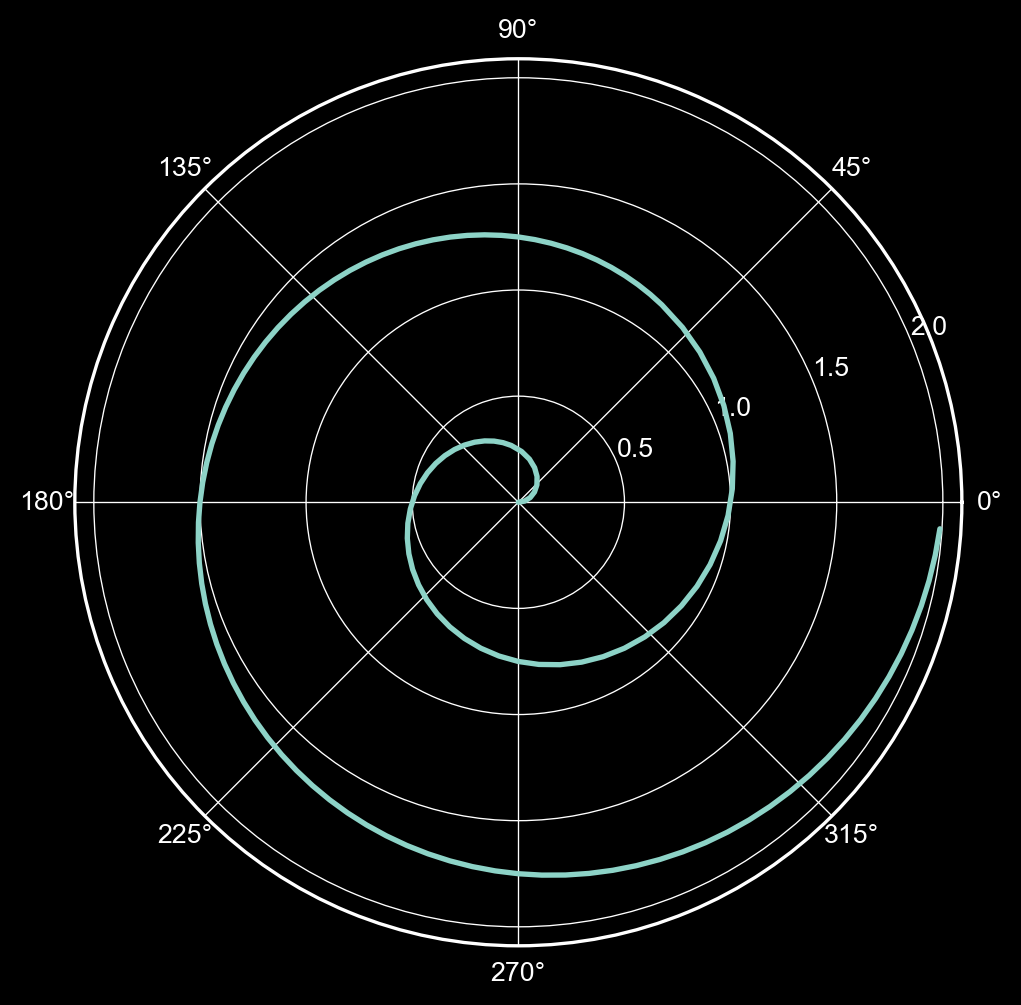
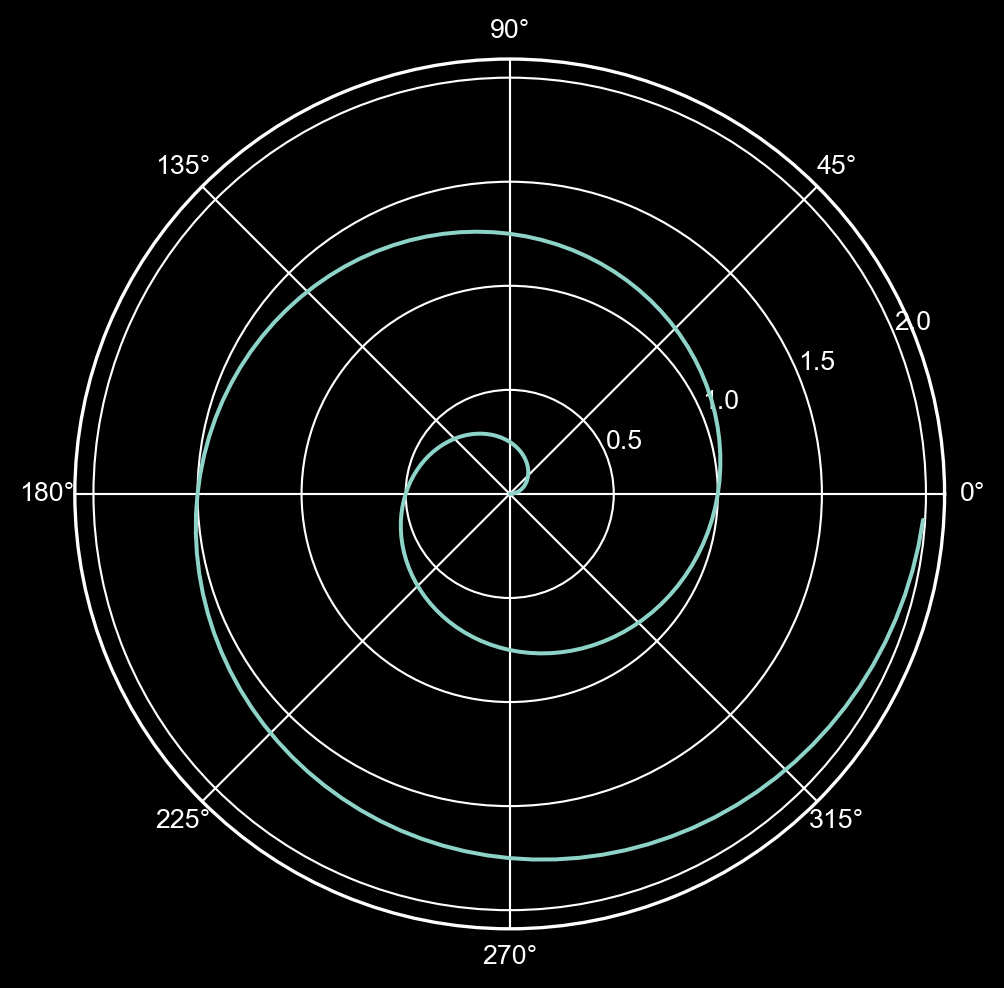
fix

diff --git a/index.html b/index.html
@@ -766,7 +766,7 @@
 <div class="cell-output cell-output-display">
 <div id="fig-polar" class="quarto-figure quarto-figure-center">
 <figure>
-<p><img data-src="index_files/figure-revealjs/fig-polar-output-1.png" width="511" height="503"></p>
+<p><img data-src="index_files/figure-revealjs/fig-polar-output-1.png" width="502" height="494"></p>
 <p></p><figcaption>Figure&nbsp;1: A line plot on a polar axis</figcaption><p></p>
 </figure>
 </div>
@@ -792,18 +792,17 @@
 <span id="cb3-15"><a href="#cb3-15"></a>ax.set_rticks([<span class="fl">0.5</span>, <span class="dv">1</span>, <span class="fl">1.5</span>, <span class="dv">2</span>])</span>
 <span id="cb3-16"><a href="#cb3-16"></a>ax.grid(<span class="va">True</span>)</span>
 <span id="cb3-17"><a href="#cb3-17"></a>plt.show()</span></code><button title="Copy to Clipboard" class="code-copy-button"><i class="bi"></i></button></pre></div>
+<div>
 <ul>
-<li class="fragment">옵션 해설
-<ul>
-<li class="fragment"><code>#| output-location: slide</code>: 별도의 슬라이드에 결과물 배치</li>
-<li class="fragment"><code>plt.style.use('seaborn-white')</code>: 스타일 설정</li>
-</ul></li>
+<li><code>plt.style.use('seaborn-white')</code>: 스타일 설정<br>
+</li>
 </ul>
+</div>
 <div class="cell" data-execution_count="2">
 <div class="cell-output cell-output-display">
 <div id="fig-polar-2" class="quarto-figure quarto-figure-center">
 <figure>
-<p><img data-src="index_files/figure-revealjs/fig-polar-2-output-1.png" width="511" height="503"></p>
+<p><img data-src="index_files/figure-revealjs/fig-polar-2-output-1.png" width="502" height="494"></p>
 <p></p><figcaption>Figure&nbsp;2: A line plot on a polar axis wth customized style</figcaption><p></p>
 </figure>
 </div>
